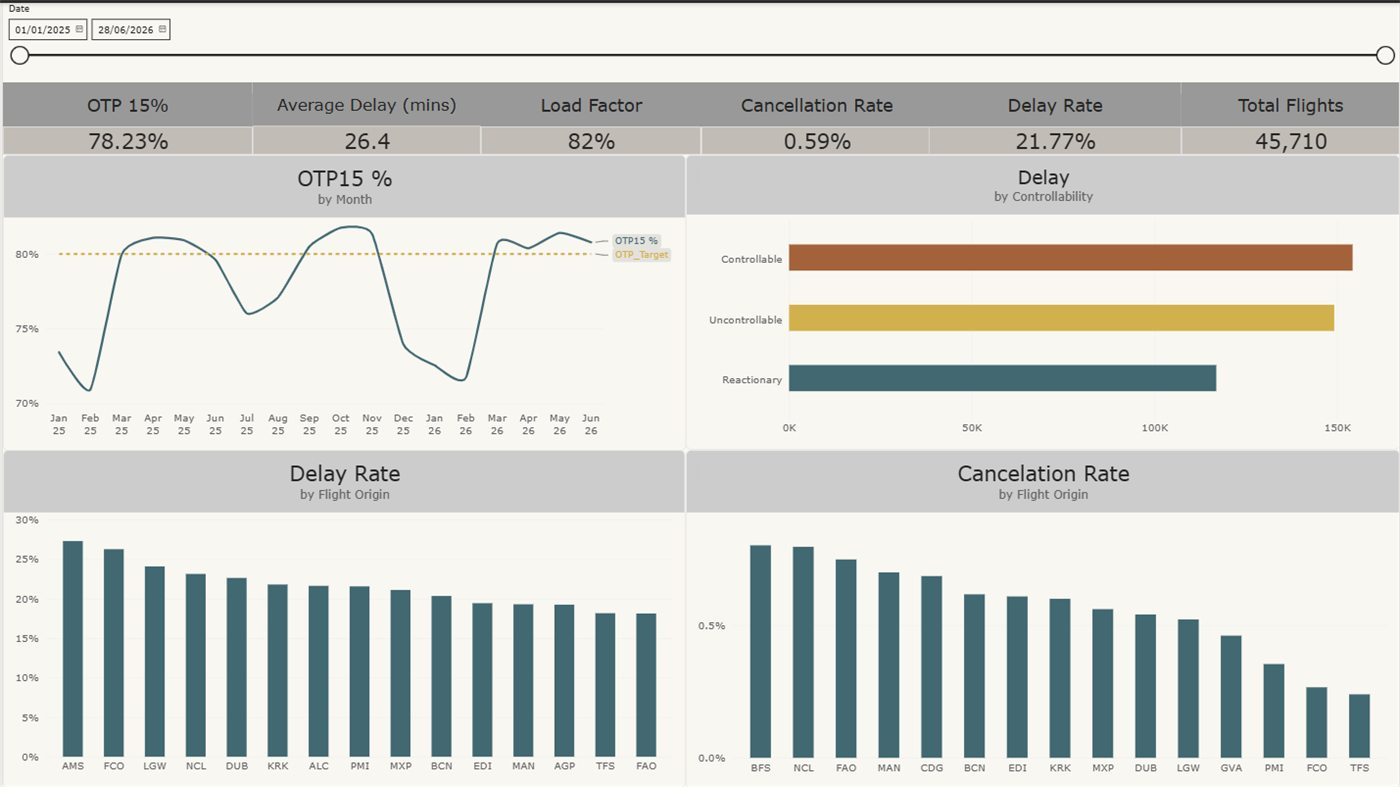
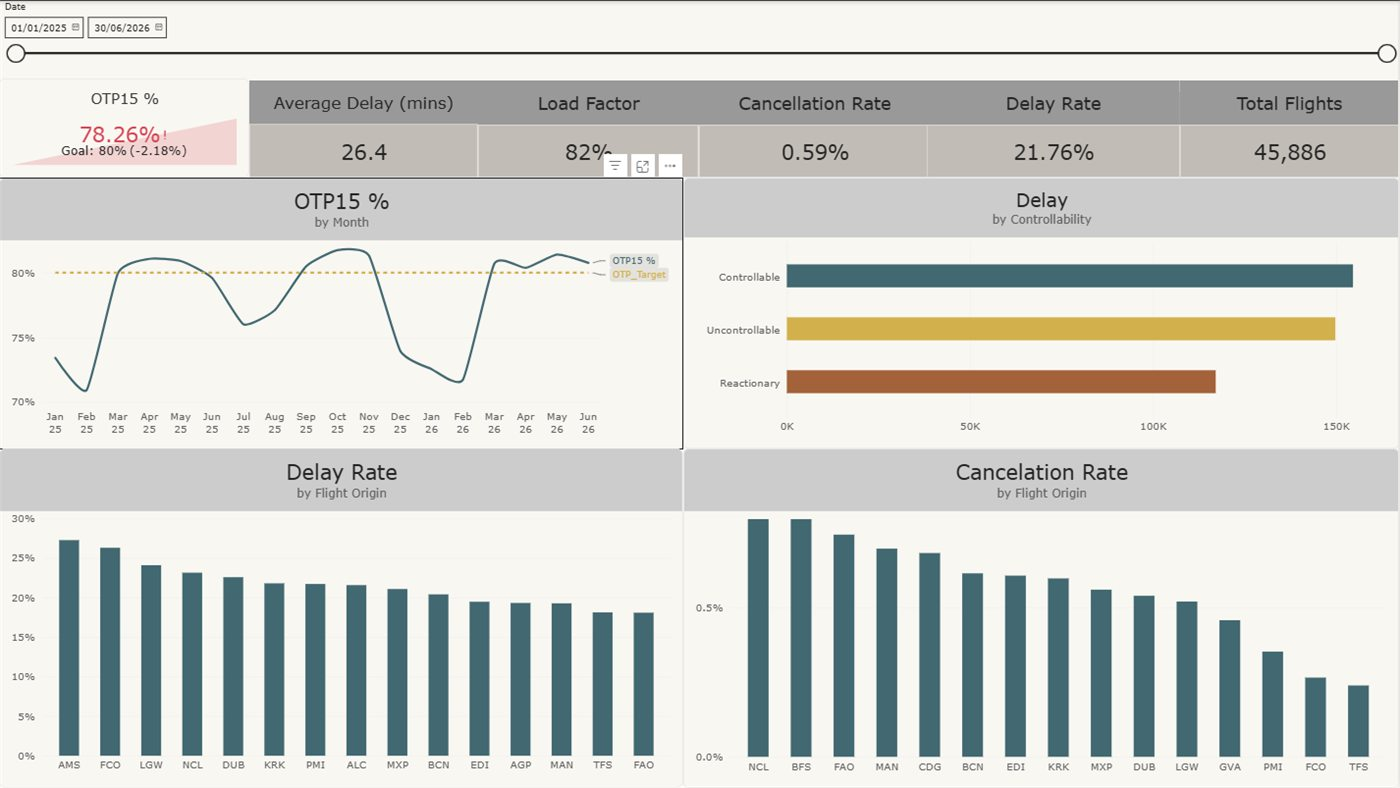
Refresh the punctuality project against the updated repo
The dashboard was re-uploaded and the README rewritten with an exact
delay-attribution table, so the site was showing an older render and
slightly stale figures.

- New screenshot: OTP15 is now a goal-tracking card reading 78.26%
  against target rather than a plain tile, and the date slicer covers
  the full range so total flights reads 45,886 instead of 45,710
- Figures corrected throughout: 78.23 to 78.26, delay rate 21.77 to
  21.76, and the alt text rewritten to match what is now on screen
- Scope wording follows the README's "18 airports"

The new README gives per-category averages, which makes the reactionary
finding much sharper than it was. Controllable and uncontrollable both
average 24.3 minutes; reactionary averages 29.8. So it is the only
category that separates on cost per event rather than on frequency,
which is a cleaner claim than "it averages more" on its own.

diff --git a/js/app.js b/js/app.js
@@ -510,12 +510,12 @@
             title: 'Airline departure punctuality',
             repo: 'https://github.com/TheLordBass/Airline-Departure-Punctuality-Analysis',
             gallery: [
-                { src: 'assets/shots/airline-delay.jpg', cap: 'One page. Six KPIs across the top, punctuality against target, delay minutes by controllability, and the station tables underneath.', alt: 'Power BI dashboard: OTP15 78.23%, average delay 26.4 minutes, load factor 82%, cancellation rate 0.59%, delay rate 21.77% and 45,710 flights, above a monthly OTP15 line against an 80% target, a bar chart of delay minutes split into controllable, uncontrollable and reactionary, and two bar charts ranking delay rate and cancellation rate by origin airport.' }
+                { src: 'assets/shots/airline-delay.jpg', cap: 'One page. OTP15 tracked against its 80% goal, five more KPIs across the top, then delay by controllability and the station rankings underneath.', alt: 'Power BI dashboard: OTP15 78.26% against an 80% goal, average delay 26.4 minutes, load factor 82%, cancellation rate 0.59%, delay rate 21.76% and 45,886 flights, above a monthly OTP15 line against an 80% target, a bar chart of delay minutes split into controllable, uncontrollable and reactionary, and two bar charts ranking delay rate and cancellation rate by origin airport.' }
             ],
             blocks: [
                 { h: 'What it is', p: [
                     'Eighteen months of short-haul departure performance for Northline Air, which does not exist. The carrier is invented and the data is synthetic, generated so I could build the thing end to end without touching anything I am not allowed to publish. Worth saying that up front.',
-                    'The shape of the problem is real enough though. 45,886 flight legs, 25 aircraft, three UK bases at Manchester, Gatwick and Edinburgh, flying to 18 European destinations between January 2025 and June 2026.'
+                    'The shape of the problem is real enough though. 45,886 flight legs, 25 aircraft, three UK bases at Manchester, Gatwick and Edinburgh, 18 airports in total, running from January 2025 to June 2026.'
                 ]},
                 { h: 'What I wanted to know', list: [
                     'How does actual punctuality compare against the 80% OTP15 target?',
@@ -524,8 +524,9 @@
                     'What do cancellations and load factor look like as a baseline?'
                 ]},
                 { h: 'What it found', list: [
-                    '<strong>OTP15 came out at 78.23% against an 80% target</strong>, missing it in 9 of the 18 months. The miss is seasonal rather than random. February sits around 71% while October and November peak near 81%, so roughly nine percentage points swing between winter and autumn.',
-                    '<strong>Reactionary delay is the expensive one.</strong> It happens least often, 3,924 events against 6,369 controllable and 6,164 uncontrollable, but it averages 29.8 minutes per event and accounts for 27.8% of all delay minutes. It is also the category the airline did not cause on the day, it inherited it from a late aircraft arriving.',
+                    '<strong>OTP15 came out at 78.26% against an 80% target</strong>, missing it in 9 of the 18 months. The miss is seasonal rather than random. February sits around 71% while October and November peak near 81%, so roughly nine percentage points swing between winter and autumn.',
+                    '<strong>Reactionary delay is the expensive one.</strong> Controllable and uncontrollable delays both average 24.3 minutes each. Reactionary averages 29.8, so it is the only category that separates from the other two on cost per event rather than on how often it happens. It occurs least of the three, 3,924 events against 6,369 and 6,164, and still accounts for 27.8% of every delay minute in the dataset.',
+                    '<strong>It is also the one the airline did not cause that day.</strong> Reactionary delay arrives with an aircraft that was already late from somewhere else, which is what makes it worth chasing. You cannot fix it at the gate where it shows up.',
                     '<strong>Size does not predict performance.</strong> Amsterdam and Rome sit near the top of the delay-rate table at around 27%, while Manchester, the second-largest base, runs closer to 19%. Ranking stations by rate instead of by count is what makes that visible.',
                     '<strong>The baselines:</strong> 0.59% cancellation rate across 270 flights, 82% load factor, and an average delay of 26.4 minutes.'
                 ]},

diff --git a/index.html b/index.html
@@ -336,8 +336,8 @@
             <!-- Featured: Airline departure punctuality -->
             <article class="card project-card is-featured has-shot" data-category="bi" data-project="airline">
                 <a class="project-shot" href="#" data-project="airline" aria-label="Open write-up: Airline departure punctuality">
-                    <img src="assets/shots/airline-delay.jpg" width="1400" height="787" loading="lazy" decoding="async"
-                         alt="Power BI dashboard showing OTP15 at 78.23% against an 80% target, average delay 26.4 minutes, 82% load factor, 0.59% cancellation rate and 45,710 flights, with a monthly punctuality line against target, delay minutes split by controllability, and delay and cancellation rates ranked by origin airport.">
+                    <img src="assets/shots/airline-delay.jpg" width="1400" height="788" loading="lazy" decoding="async"
+                         alt="Power BI dashboard showing OTP15 at 78.26% against an 80% target, a shortfall of 2.18 points, alongside average delay 26.4 minutes, 82% load factor, 0.59% cancellation rate, 21.76% delay rate and 45,886 flights, with a monthly punctuality line against target, delay minutes split by controllability, and delay and cancellation rates ranked by origin airport.">
                 </a>
                 <div class="project-top">
                     <span class="project-kind">Power BI · DAX · Power Query</span>
@@ -345,7 +345,7 @@
                 </div>
                 <p class="project-desc">
                     Eighteen months of short-haul departures for a made-up UK carrier, built to see where
-                    punctuality actually goes. OTP15 came out at 78.23% against an 80% target, and the
+                    punctuality actually goes. OTP15 came out at 78.26% against an 80% target, and the
                     delay type that happens least often turned out to cost the most each time it does.
                 </p>
                 <ul class="tag-list"><li>Power BI</li><li>DAX</li><li>Power Query</li><li>Aviation</li></ul>
